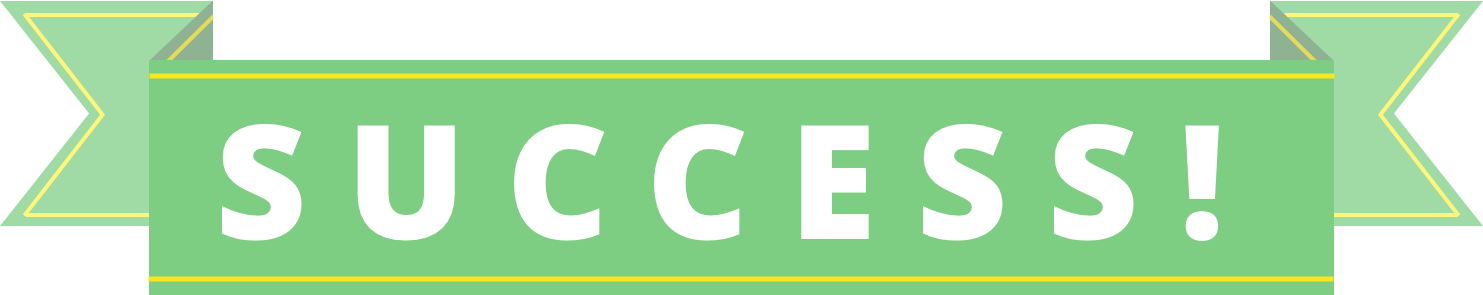
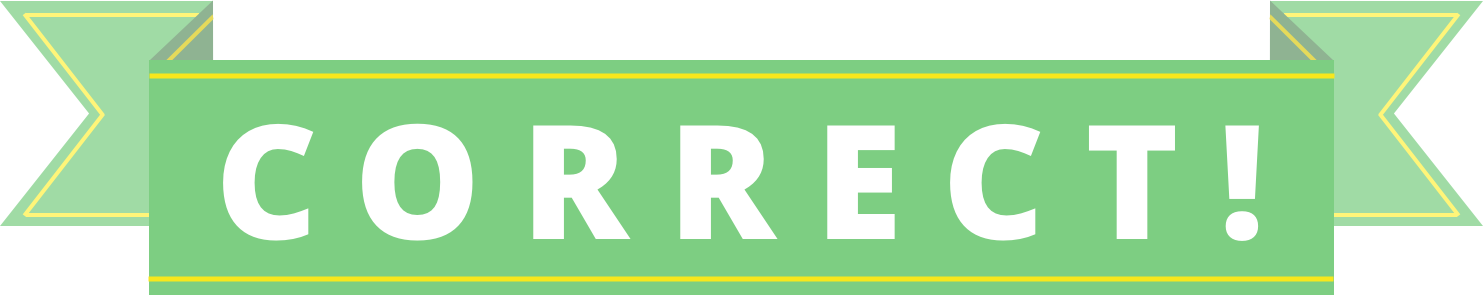
add README

Changed region(s): [[0.1241, 0.3966, 0.8685, 0.8237], [0.4653, 0.3966, 0.4963, 0.4271], [0.3722, 0.3966, 0.4032, 0.4271]]

diff --git a/scripts.js b/scripts.js
@@ -7,7 +7,7 @@ function load() {
   loadJSON("https://api.myjson.com/bins/14nftt", function(response) {
       actual_JSON = JSON.parse(response);
       chooseWordSet(actual_JSON);
-      displayWordSet(chosenWordSet);
+      formatWordSet(chosenWordSet);
   });
 }
 
@@ -30,7 +30,7 @@ function chooseWordSet(data) {
   chosenWordSet = wordSetObject[0];
 }
 
-function displayWordSet(wordSet) {
+function formatWordSet(wordSet) {
   var value;
   var keyWords = Object.getOwnPropertyNames(wordSet);
   var shuffledValueWords = [];
@@ -105,7 +105,8 @@ function handleDropEvent( event, ui ) {
   }
 
   if (correctAnswers >= orderedValueWords.length) {
-    alert("All correct!");
+    $('#success-banner').fadeIn();
+    $('.value-input-field').css('background', 'white');
   }
 
 }
@@ -120,7 +121,7 @@ $(document).ready(function(){
       if ( $(this).hasClass( 'correct' ) === true ) {
         $(this).css('background', '#7DCE82');
       } else {
-        $(this).css('background', '#C97064');
+        $(this).css('background', '#ff857f');
       }
     });
   });
@@ -131,6 +132,7 @@ $(document).ready(function(){
     orderedValueWords = [];
     correctAnswers = 0;
     $("ul").empty();
+    $("#success-banner").fadeOut();
     load();
   });
 

diff --git a/css/styles.css b/css/styles.css
@@ -16,7 +16,7 @@ h3 {
   margin: 40px auto;
   max-width: 960px;
   font-size: 16pt;
-  margin-bottom: 70px;
+  margin-bottom: 60px;
 }
 
 h5 {
@@ -49,6 +49,7 @@ button {
 .container {
   max-width: 1000px;
   margin: 0 auto;
+  padding-bottom: 50px;
 }
 
 .matching-area {
@@ -71,6 +72,8 @@ button {
   width: 170px;
   border: 1px solid grey;
   border-radius: 5px;
+  -webkit-transition: background 1s ease;
+  -moz-transition: background 1s ease;
   transition: background .5s;
 }
 
@@ -89,20 +92,33 @@ button {
 
 #check {
   position: relative;
-  left: 15%;
+  left: 20%;
   background: #7DCE82;
 }
 #reset {
   position: relative;
-  right: 15%;
+  right: 10%;
   background: #FF8360;
+}
+
+#success-banner {
+  display: none;
+  position: absolute;
+  top: 50%;
+  transform: translateY(-50%);
+  width: 100%;
+}
+
+#success-banner img {
+  width: 100%;
 }
 
 @media screen and (max-width: 650px) {
   h5 {
     font-size: 14pt;
+    padding-top: 10px;
   }
   .value-input-field {
-    width: 125px;
+    width: 120px;
   }
 }

diff --git a/index.html b/index.html
@@ -16,7 +16,7 @@
   <body>
     <div class="container">
       <h1>Matching Pairs</h1>
-      <h3>Drag each word on the right into the box by its most closely related counterpart on the left.</h3>
+      <h3>Drag each word on the right into the box by the most closely related word on the left.</h3>
       <div class="matching-area row">
         <div class="key-words three columns">
           <ul>
@@ -35,12 +35,15 @@
         </div>
       </div>
       <div class="button-area row">
-        <div class="six columns">
+        <div class="offset-by-one five columns">
           <button id="check" type="button">Check</button>
         </div>
-        <div class="six columns">
+        <div class="five columns">
           <button id="reset" type="button" name="button">Reset</button>
         </div>
+      </div>
+      <div id="success-banner">
+        <img src="img/success-banner.png" alt="success all answers correct">
       </div>
     </div>
   </body>

diff --git a/README.md b/README.md
@@ -1,0 +1,27 @@
+# Matching Pairs
+
+This is a coding exercise prompting a user to solve a simple word puzzle.
+
+### _by Ethan Law_
+
+## Description
+
+Users follow the instructions to match each word on the right to it's most closely related counterpart on the left.  Clicking 'check' will cause correct answer fields to turn green with the incorrect fields turning red.  When all answers are correct, a banner will pop up congratulating the user.  Hitting 'reset' will remove the banner and pull a fresh set of words from the JSON.
+
+## Technologies Used
+
+* HTML5
+* CSS3 with normalizer and Skeleton boilerplate
+* JavaScript with jQuery and jQuery UI
+* JSON
+
+## Setup
+
+* Clone from Github
+* Run on a web browser
+
+Or just navigate to [ejlaw01.github.io/matching-pairs](http://ejlaw01.github.io/matching-pairs)
+
+## License
+
+MIT 2017 Ethan Law
